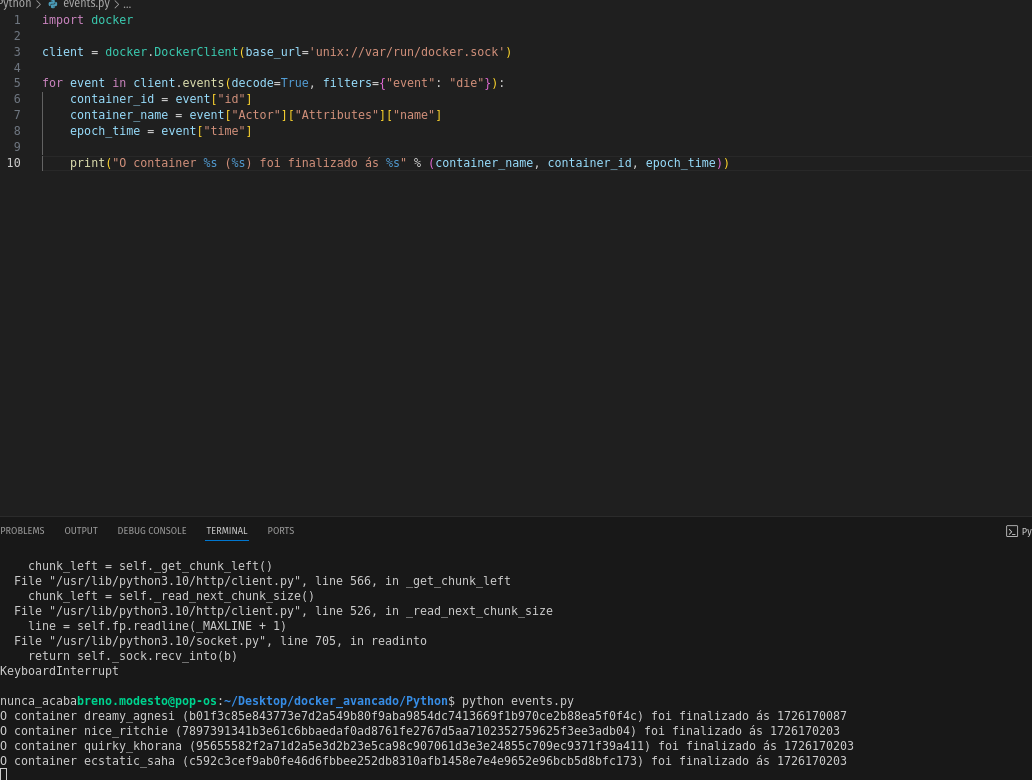
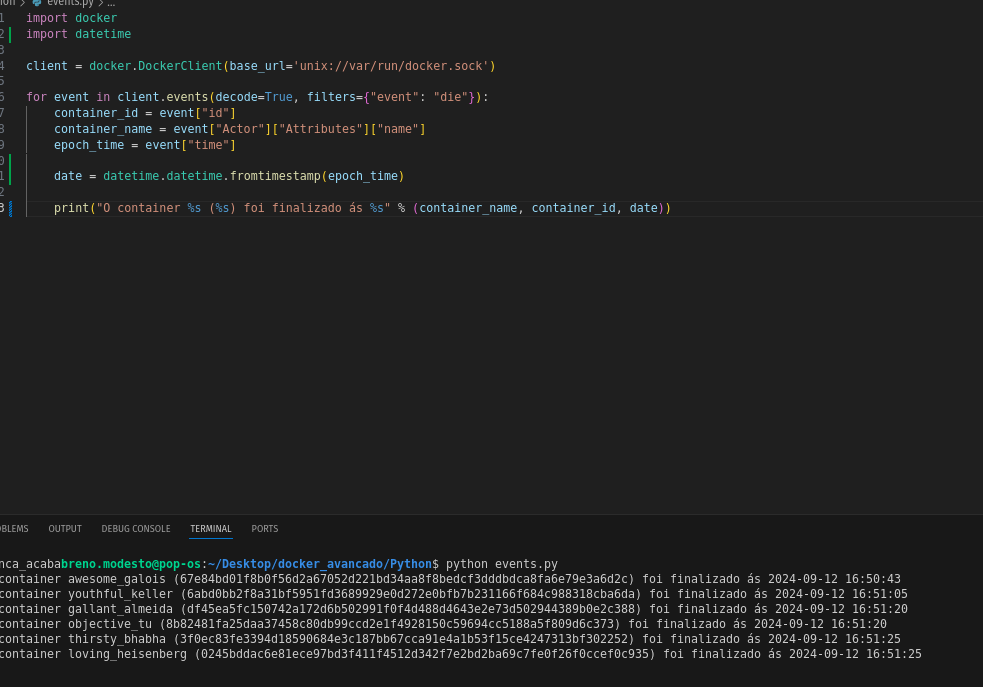
discord_bot

diff --git a/Python/events.py b/Python/events.py
@@ -1,10 +1,19 @@
 import docker
+import datetime
+import requests
 
 client = docker.DockerClient(base_url='unix://var/run/docker.sock')
+
+webhook_url = "SUA_URL" ##Webhook discord
 
 for event in client.events(decode=True, filters={"event": "die"}):
     container_id = event["id"]
     container_name = event["Actor"]["Attributes"]["name"]
     epoch_time = event["time"]
+    
+    date = datetime.datetime.fromtimestamp(epoch_time)
 
-    print("O container %s (%s) foi finalizado ás %s" % (container_name, container_id, epoch_time))
+    payload = {"content": "O container %s (%s) foi finalizado ás %s" % (container_name, container_id, date)} ## DICT discord
+
+    print (payload) 
+    requests.post(webhook_url, data=payload)
